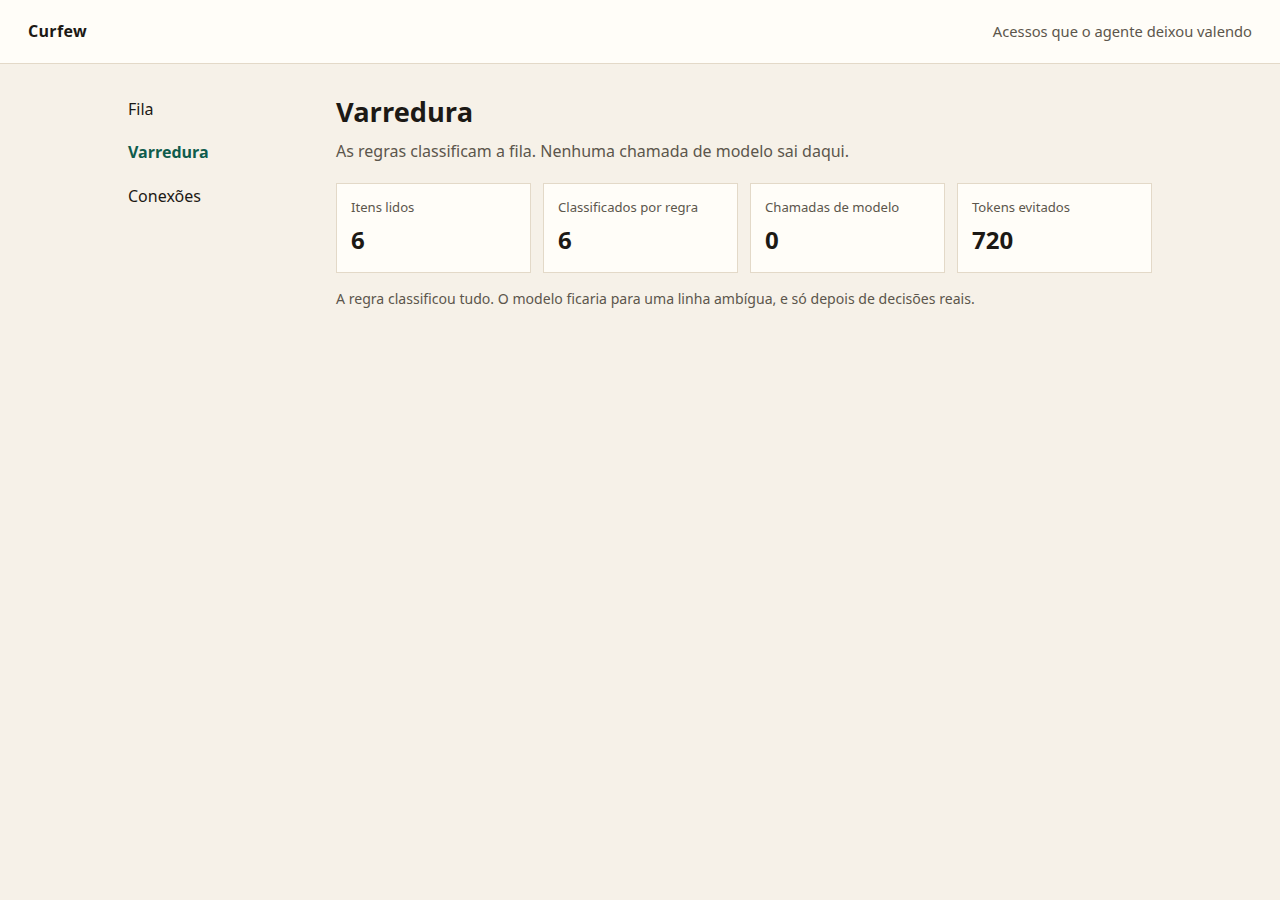
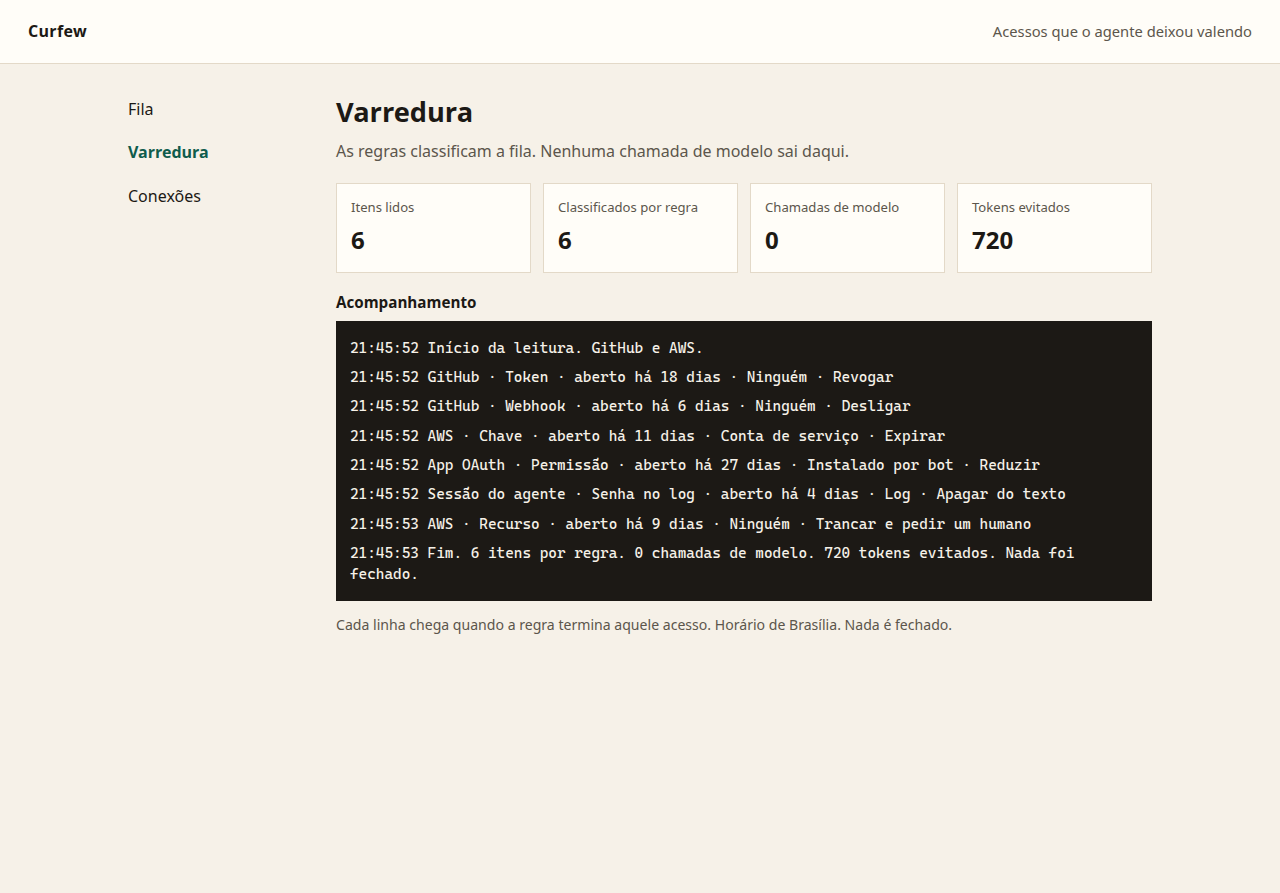
Mostra o log ao vivo da varredura para o usuário acompanhar.
Cada linha chega por /varredura/eventos com sistema, idade, dono e ação, sem o segredo, e os contadores fecham em 6, 6, 0 e 720.

diff --git a/src/main/resources/templates/Pages/scan.html b/src/main/resources/templates/Pages/scan.html
@@ -13,25 +13,29 @@
         <dl class="stats">
             <div>
                 <dt>Itens lidos</dt>
-                <dd>{items}</dd>
+                <dd id="stat-items">{items}</dd>
             </div>
             <div>
                 <dt>Classificados por regra</dt>
-                <dd>{report.itemsClassifiedByRule}</dd>
+                <dd id="stat-rules">{report.itemsClassifiedByRule}</dd>
             </div>
             <div>
                 <dt>Chamadas de modelo</dt>
-                <dd>{report.modelCalls}</dd>
+                <dd id="stat-calls">{report.modelCalls}</dd>
             </div>
             <div>
                 <dt>Tokens evitados</dt>
-                <dd>{report.tokensAvoided}</dd>
+                <dd id="stat-tokens">{report.tokensAvoided}</dd>
             </div>
         </dl>
+        <h2>Acompanhamento</h2>
         {#if state == 'EMPTY'}
-            <p class="banner">Nenhum acesso esquecido nesta leitura.</p>
+            <ol class="log" aria-live="polite">
+                <li>Nenhum acesso esquecido nesta leitura.</li>
+            </ol>
         {#else}
-            <p class="footnote">A regra classificou tudo. O modelo ficaria para uma linha ambígua, e só depois de decisões reais.</p>
+            <ol id="scan-log" class="log" data-live="true" aria-live="polite" aria-relevant="additions"></ol>
+            <p class="footnote">Cada linha chega quando a regra termina aquele acesso. Horário de Brasília. Nada é fechado.</p>
         {/if}
     {/if}
 {/body}

diff --git a/src/main/resources/META-INF/resources/app.js b/src/main/resources/META-INF/resources/app.js
@@ -1,4 +1,43 @@
 (function () {
+    var log = document.querySelector("#scan-log");
+    if (!log || log.getAttribute("data-live") !== "true" || typeof EventSource === "undefined") {
+        return;
+    }
+    var source = new EventSource("/varredura/eventos");
+    source.addEventListener("line", function (event) {
+        var item = document.createElement("li");
+        item.textContent = event.data;
+        log.appendChild(item);
+        log.scrollTop = log.scrollHeight;
+    });
+    source.addEventListener("fault", function (event) {
+        var item = document.createElement("li");
+        item.className = "fault";
+        item.textContent = event.data;
+        log.appendChild(item);
+        source.close();
+    });
+    source.addEventListener("done", function (event) {
+        var parts = event.data.split(" ");
+        setText("stat-items", parts[0]);
+        setText("stat-rules", parts[1]);
+        setText("stat-calls", parts[2]);
+        setText("stat-tokens", parts[3]);
+        source.close();
+    });
+    source.onerror = function () {
+        source.close();
+    };
+
+    function setText(id, value) {
+        var node = document.getElementById(id);
+        if (node && value) {
+            node.textContent = value;
+        }
+    }
+}());
+
+(function () {
     var buttons = document.querySelectorAll("[data-filter]");
     var rows = document.querySelectorAll("[data-kind]");
     if (!buttons.length) {

diff --git a/src/main/resources/META-INF/resources/app.css b/src/main/resources/META-INF/resources/app.css
@@ -143,6 +143,23 @@ tr:last-child td { border-bottom: 0; }
 
 .footnote { color: var(--muted); font-size: 0.88rem; }
 
+.log {
+    list-style: none;
+    margin: 8px 0 0;
+    padding: 12px 14px;
+    min-height: 220px;
+    max-height: 320px;
+    overflow: auto;
+    background: #1c1915;
+    color: #f6f1e8;
+    font-family: ui-monospace, "Cascadia Mono", "Segoe UI Mono", monospace;
+    font-size: 0.92rem;
+}
+
+.log li { padding: 4px 0; }
+
+.log li.fault { color: #f0b4ae; }
+
 @media (max-width: 800px) {
     .top { flex-direction: column; align-items: flex-start; padding: 16px; }
     .shell { grid-template-columns: 1fr; padding: 16px; gap: 12px; }

diff --git a/src/main/java/curfew/web/ScanEvents.java b/src/main/java/curfew/web/ScanEvents.java
@@ -1,0 +1,111 @@
+package curfew.web;
+
+import java.io.IOException;
+import java.time.Instant;
+import java.util.List;
+
+import org.eclipse.microprofile.config.inject.ConfigProperty;
+
+import curfew.scan.ClassifiedAccess;
+import curfew.scan.MockAccessSource;
+import curfew.scan.ScanEngine;
+import curfew.scan.ScanLog;
+import curfew.scan.ScanRules;
+import curfew.scan.TokenLedger;
+import curfew.scan.TokenReport;
+import curfew.store.AccessStore;
+import io.smallrye.common.annotation.Blocking;
+import jakarta.inject.Inject;
+import jakarta.ws.rs.GET;
+import jakarta.ws.rs.Path;
+import jakarta.ws.rs.Produces;
+import jakarta.ws.rs.QueryParam;
+import jakarta.ws.rs.core.Context;
+import jakarta.ws.rs.core.MediaType;
+import jakarta.ws.rs.sse.Sse;
+import jakarta.ws.rs.sse.SseEventSink;
+
+@Path("/")
+public class ScanEvents {
+
+    private final AccessStore store;
+    private final int parallelism;
+    private final int pauseMs;
+
+    @Inject
+    public ScanEvents(
+            AccessStore store,
+            @ConfigProperty(name = "curfew.scan.parallelism") int parallelism,
+            @ConfigProperty(name = "curfew.scan.log-pause-ms") int pauseMs) {
+        this.store = store;
+        this.parallelism = parallelism;
+        this.pauseMs = pauseMs;
+    }
+
+    @GET
+    @Path("varredura/eventos")
+    @Produces(MediaType.SERVER_SENT_EVENTS)
+    @Blocking
+    public void stream(@Context SseEventSink sink, @Context Sse sse, @QueryParam("estado") String estado) {
+        try {
+            ViewState state = ViewState.from(estado);
+            if (state == ViewState.ERROR) {
+                send(sink, sse, "fault", "A leitura não completou. Nada foi fechado.");
+                return;
+            }
+            if (state == ViewState.EMPTY || state == ViewState.LOADING) {
+                send(sink, sse, "line", state == ViewState.LOADING
+                        ? "Lendo GitHub e AWS."
+                        : "Nenhum acesso esquecido nesta leitura.");
+                send(sink, sse, "done", "0 0 0 0");
+                return;
+            }
+
+            send(sink, sse, "line", ScanLog.clock(Instant.now()) + "  Início da leitura. GitHub e AWS.");
+            List<ClassifiedAccess> classified = new ScanEngine(parallelism)
+                    .classifyAll(new MockAccessSource().list(), new ScanRules());
+            store.replace(classified);
+            for (ClassifiedAccess item : classified) {
+                if (sink.isClosed()) {
+                    return;
+                }
+                pause();
+                send(sink, sse, "line", ScanLog.line(item, ScanLog.clock(Instant.now())));
+            }
+            pause();
+            TokenReport report = new TokenLedger().report(classified.size());
+            send(sink, sse, "line", ScanLog.clock(Instant.now())
+                    + "  Fim. " + report.itemsClassifiedByRule()
+                    + " itens por regra. " + report.modelCalls()
+                    + " chamadas de modelo. " + report.tokensAvoided()
+                    + " tokens evitados. Nada foi fechado.");
+            send(sink, sse, "done", report.itemsClassifiedByRule() + " "
+                    + report.itemsClassifiedByRule() + " "
+                    + report.modelCalls() + " "
+                    + report.tokensAvoided());
+        } finally {
+            try {
+                sink.close();
+            } catch (IOException exception) {
+                // O navegador fechou a leitura. Não há o que registrar sem o corpo do pedido.
+            }
+        }
+    }
+
+    private void send(SseEventSink sink, Sse sse, String name, String data) {
+        if (!sink.isClosed()) {
+            sink.send(sse.newEventBuilder().name(name).data(data).build()).toCompletableFuture().join();
+        }
+    }
+
+    private void pause() {
+        if (pauseMs <= 0) {
+            return;
+        }
+        try {
+            Thread.sleep(pauseMs);
+        } catch (InterruptedException exception) {
+            Thread.currentThread().interrupt();
+        }
+    }
+}

diff --git a/src/main/java/curfew/web/Pages.java b/src/main/java/curfew/web/Pages.java
@@ -2,12 +2,7 @@ package curfew.web;
 
 import java.util.List;
 
-import org.eclipse.microprofile.config.inject.ConfigProperty;
-
 import curfew.scan.ClassifiedAccess;
-import curfew.scan.MockAccessSource;
-import curfew.scan.ScanEngine;
-import curfew.scan.ScanRules;
 import curfew.scan.TokenLedger;
 import curfew.scan.TokenReport;
 import curfew.store.AccessStore;
@@ -38,12 +33,10 @@ public class Pages {
     }
 
     private final AccessStore store;
-    private final int parallelism;
 
     @Inject
-    public Pages(AccessStore store, @ConfigProperty(name = "curfew.scan.parallelism") int parallelism) {
+    public Pages(AccessStore store) {
         this.store = store;
-        this.parallelism = parallelism;
     }
 
     @GET
@@ -68,15 +61,7 @@ public class Pages {
     @Produces(MediaType.TEXT_HTML)
     public TemplateInstance scan(@QueryParam("estado") String estado) {
         ViewState state = ViewState.from(estado);
-        if (state == ViewState.ERROR || state == ViewState.LOADING) {
-            return Templates.scan("varredura", state.name(), new TokenLedger().report(0), 0);
-        }
-        var classified = new ScanEngine(parallelism).classifyAll(new MockAccessSource().list(), new ScanRules());
-        if (state == ViewState.DATA) {
-            store.replace(classified);
-        }
-        int count = state == ViewState.EMPTY ? 0 : classified.size();
-        return Templates.scan("varredura", state.name(), new TokenLedger().report(count), count);
+        return Templates.scan("varredura", state.name(), new TokenLedger().report(0), 0);
     }
 
     @GET

diff --git a/src/test/java/curfew/web/QueuePageTest.java b/src/test/java/curfew/web/QueuePageTest.java
@@ -34,9 +34,23 @@ class QueuePageTest {
         assertTrue(body("/acessos/gh-token-18").contains("Revogar"));
         given().when().get("/acessos/nao-existe").then().statusCode(404);
         String scan = body("/varredura");
-        assertTrue(scan.contains("Chamadas de modelo"));
+        assertTrue(scan.contains("Acompanhamento"));
+        assertTrue(scan.contains("id=\"scan-log\""));
         assertTrue(scan.contains(">0<"));
         assertTrue(body("/conexoes").contains("Leitura ainda não ligada"));
+    }
+
+    @Test
+    void scanLogStreamsEachStepWithoutSecrets() {
+        String events = given().when().get("/varredura/eventos").then().statusCode(200).extract().asString();
+
+        assertTrue(events.contains("Início da leitura"));
+        assertTrue(events.contains("GitHub · Token"));
+        assertTrue(events.contains("Revogar"));
+        assertTrue(events.contains("Nada foi fechado"));
+        assertTrue(events.contains("720"));
+        assertFalse(events.contains("ghp_"));
+        assertFalse(events.contains("AKIA"));
     }
 
     private static String body(String path) {

diff --git a/src/main/java/curfew/scan/ScanLog.java b/src/main/java/curfew/scan/ScanLog.java
@@ -1,0 +1,28 @@
+package curfew.scan;
+
+import java.time.ZoneId;
+import java.time.format.DateTimeFormatter;
+
+/**
+ * Linha de acompanhamento. Leva sistema, idade, dono e ação. Não leva segredo.
+ */
+public final class ScanLog {
+
+    public static final ZoneId CLOCK = ZoneId.of("America/Sao_Paulo");
+    private static final DateTimeFormatter TIME = DateTimeFormatter.ofPattern("HH:mm:ss").withZone(CLOCK);
+
+    private ScanLog() {
+    }
+
+    public static String clock(java.time.Instant instant) {
+        return TIME.format(instant);
+    }
+
+    public static String line(ClassifiedAccess item, String clock) {
+        return clock + "  " + item.system()
+                + " · " + item.kindLabel()
+                + " · aberto há " + item.ageDays() + " dias"
+                + " · " + item.owner()
+                + " · " + item.action();
+    }
+}

diff --git a/src/test/java/curfew/scan/ScanLogTest.java b/src/test/java/curfew/scan/ScanLogTest.java
@@ -1,0 +1,23 @@
+package curfew.scan;
+
+import static org.junit.jupiter.api.Assertions.assertFalse;
+import static org.junit.jupiter.api.Assertions.assertTrue;
+
+import org.junit.jupiter.api.Test;
+
+class ScanLogTest {
+
+    @Test
+    void lineNamesTheAccessAndSkipsAnySecret() {
+        String line = ScanLog.line(
+                new ClassifiedAccess("gh-token-18", "token", "Token", "GitHub", 18, null, "Ninguém", "Revogar",
+                        "Nada foi fechado.", false),
+                "21:41:02");
+
+        assertTrue(line.contains("21:41:02"));
+        assertTrue(line.contains("GitHub · Token"));
+        assertTrue(line.contains("18 dias"));
+        assertTrue(line.contains("Revogar"));
+        assertFalse(line.contains("ghp_"));
+    }
+}

diff --git a/.cursor/skills/curfew/SKILL.md b/.cursor/skills/curfew/SKILL.md
@@ -27,6 +27,7 @@ Abra `http://127.0.0.1:8473/`. Estados da fila: `/?estado=vazio`, `/?estado=carr
 - Regras: `src/main/java/curfew/scan/ScanRules.java`
 - Teto de concorrência: `ScanEngine`
 - Tokens evitados: `TokenLedger` (o contador de chamadas de modelo permanece zero)
+- Log ao vivo: `GET /varredura/eventos`. Cada linha leva sistema, idade, dono e ação. Sem segredo.
 - Telas: `src/main/resources/templates/Pages/` e `src/main/resources/META-INF/resources/app.css`
 - Filtro no navegador: `app.js`. Ele não faz pedido de rede.
 

diff --git a/README.md b/README.md
@@ -31,7 +31,7 @@ Telas:
 
 - `/` fila
 - `/acessos/gh-token-18` detalhe
-- `/varredura` contagem de itens e tokens evitados
+- `/varredura` contagem de itens, tokens evitados e o log ao vivo da leitura
 - `/conexoes` GitHub e AWS ainda sem leitura
 - `/?estado=vazio`, `/?estado=carregando`, `/?estado=erro`
 
